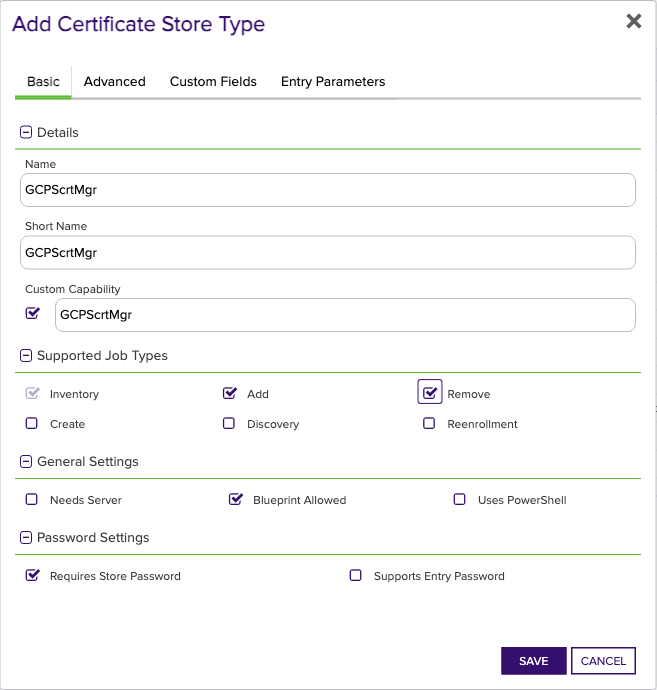
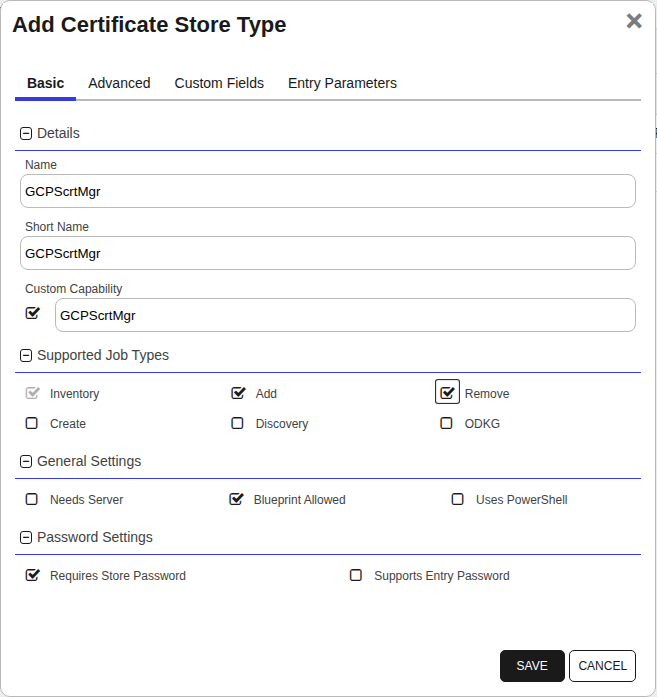
Update generated docs

diff --git a/README.md b/README.md
@@ -57,7 +57,7 @@ Before installing the GCP Secret Manager Universal Orchestrator extension, we re
 
 The GCP Secret Manager Orchestrator Extension uses Google Application Default Credentials (ADC) for authentication.  Testing of this orchestrator extension was performed using a service account, but please review [Google Application Default Credentials](https://cloud.google.com/docs/authentication/application-default-credentials) for more information on the various ways authentication can be set up.
 
-The GCP project and account being used to access Secret Manager must have access to and enabled the Secret Manger API and also must have assigned to it the Secret Manager Admin role.
+The GCP project and account being used to access Secret Manager must have access to and enabled the Secret Manger API and also must have assigned to it the Secret Manager Admin and Tag Administrator roles.
 
 
 ## GCPScrtMgr Certificate Store Type
@@ -163,6 +163,7 @@ the Keyfactor Command Portal
    If storing a certificate with an encrypted private key, this is the suffix to add to the certificate (secret) alias name where the encrypted private key password will be stored.  Please see [Certificate Encryption Details](#certificate-encryption-details) for more information
 
    ![GCPScrtMgr Custom Field - PasswordSecretSuffix](docsource/images/GCPScrtMgr-custom-field-PasswordSecretSuffix-dialog.png)
+   ![GCPScrtMgr Custom Field - PasswordSecretSuffix](docsource/images/GCPScrtMgr-custom-field-PasswordSecretSuffix-validation-options-dialog.png)
 
 
 
@@ -170,6 +171,7 @@ the Keyfactor Command Portal
    Determines whether to include the certificate chain when adding a certificate as a secret.
 
    ![GCPScrtMgr Custom Field - IncludeChain](docsource/images/GCPScrtMgr-custom-field-IncludeChain-dialog.png)
+   ![GCPScrtMgr Custom Field - IncludeChain](docsource/images/GCPScrtMgr-custom-field-IncludeChain-validation-options-dialog.png)
 
 
 
@@ -185,14 +187,12 @@ the Keyfactor Command Portal
 
    | Universal Orchestrator Version | Latest .NET version installed on the Universal Orchestrator server | `rollForward` condition in `Orchestrator.runtimeconfig.json` | `gcp-secretmanager-orchestrator` .NET version to download |
    | --------- | ----------- | ----------- | ----------- |
-   | Older than `11.0.0` | | | `net6.0` |
-   | Between `11.0.0` and `11.5.1` (inclusive) | `net6.0` | | `net6.0` |
-   | Between `11.0.0` and `11.5.1` (inclusive) | `net8.0` | `Disable` | `net6.0` || Between `11.0.0` and `11.5.1` (inclusive) | `net8.0` | `LatestMajor` | `net8.0` |
+   | Between `11.0.0` and `11.5.1` (inclusive) | `net8.0` | `LatestMajor` | `net8.0` |
    | `11.6` _and_ newer | `net8.0` | | `net8.0` | 
 
     Unzip the archive containing extension assemblies to a known location.
 
-    > **Note** If you don't see an asset with a corresponding .NET version, you should always assume that it was compiled for `net6.0`.
+    > **Note** If you don't see an asset with a corresponding .NET version, you should always assume that it was compiled for `net8.0`.
 
 2. **Locate the Universal Orchestrator extensions directory.**
 